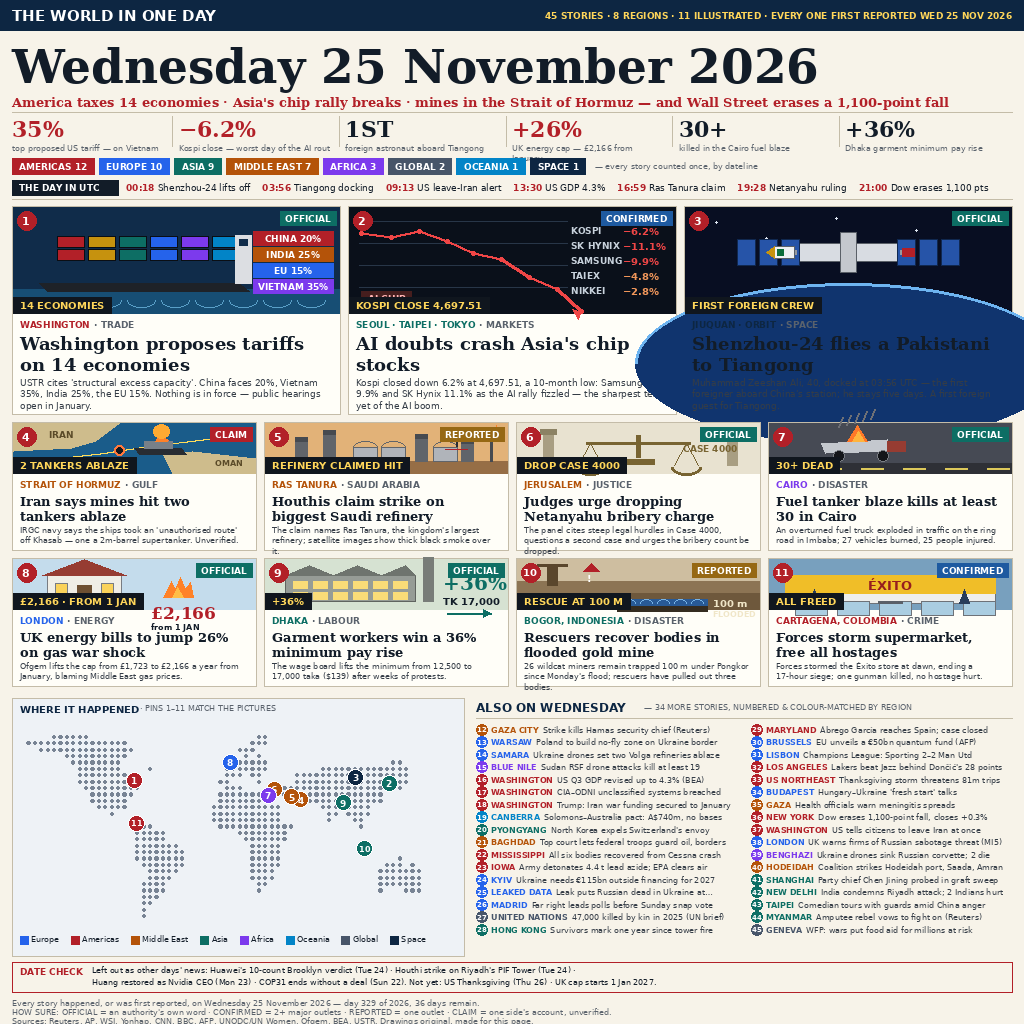
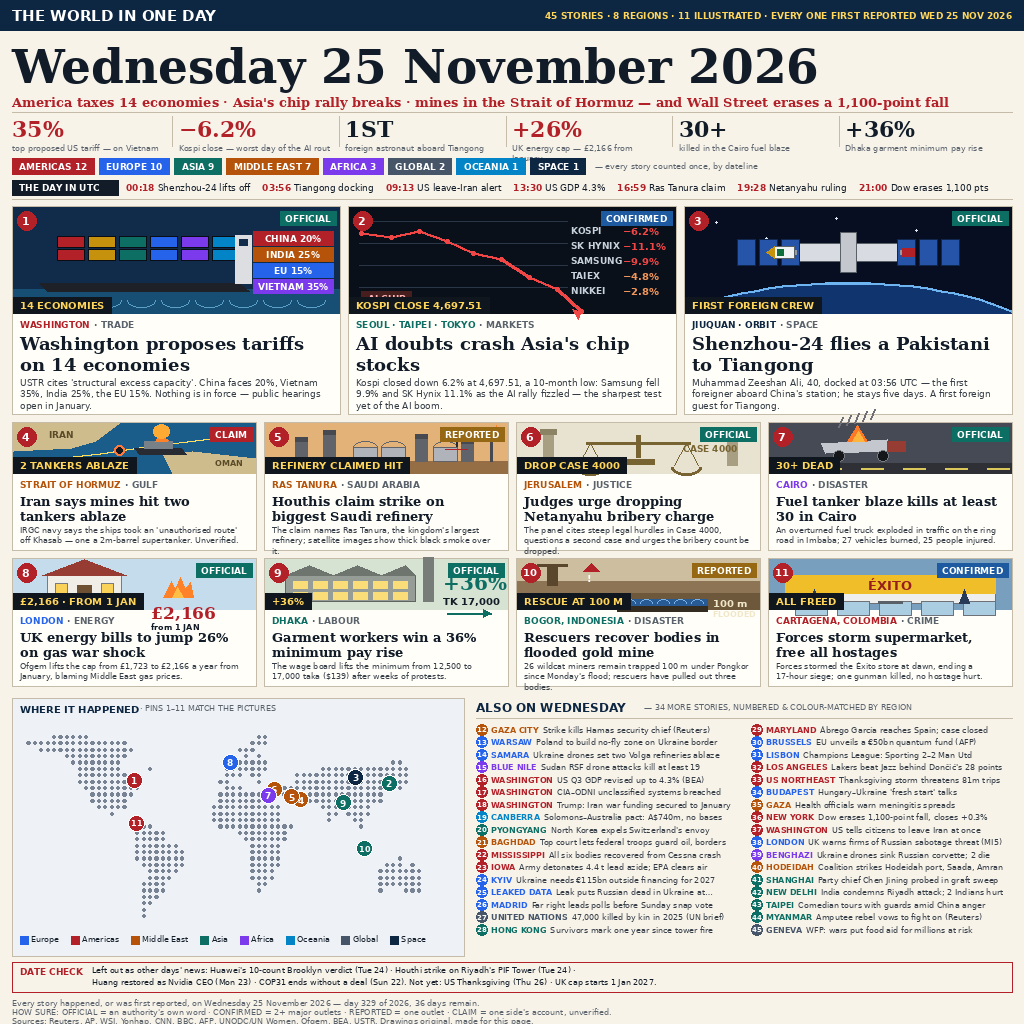
v2 fix: clip the Tiangong planet to its scene — the filled ellipse bled 130px past the scene over the tile's headline

Changed region(s): [[0.5938, 0.2812, 1.0, 0.4375]]

diff --git a/build_image.py b/build_image.py
@@ -9,6 +9,8 @@ against wire reporting of the day; the drawing is original.
 Run at build time only:  python3 build_image.py  ->  entry.png
 The shipped program (main.py) merely copies entry.png to /output.
 """
+import math
+
 from PIL import Image, ImageDraw, ImageFont
 
 W, H = 1024, 1024
@@ -302,8 +304,16 @@ def scene_station(d, x, y, w, h):
     d.rectangle([x, y, x + w, y + h], fill=(8, 14, 34))
     for sx, sy in [(30, 14), (80, 30), (150, 10), (230, 22), (290, 12), (60, 44), (200, 40)]:
         d.ellipse([x + sx, y + sy, x + sx + 2, y + sy + 2], fill=(220, 228, 240))
-    d.ellipse([x - 50, y + h - 30, x + w + 50, y + h + 130], fill=(16, 52, 110))
-    d.arc([x - 50, y + h - 30, x + w + 50, y + h + 130], 180, 360, fill=(110, 180, 240), width=3)
+    cx_e, cy_e = x + w / 2, y + h + 50
+    rx, ry = w / 2 + 50, 80
+    cap = []
+    for a in range(180, 361, 4):
+        px = cx_e + rx * math.cos(math.radians(a))
+        py = cy_e + ry * math.sin(math.radians(a))
+        if py <= y + h:
+            cap.append((min(max(px, x), x + w), py))
+    d.polygon(cap + [(x + w, y + h), (x, y + h)], fill=(16, 52, 110))
+    d.line(cap, fill=(110, 180, 240), width=3)
     cx, cy = x + w // 2, y + h // 2 - 8
     d.rectangle([cx - 52, cy - 9, cx + 52, cy + 9], fill=(216, 220, 226), outline=(90, 96, 104))
     d.rectangle([cx - 8, cy - 20, cx + 8, cy + 20], fill=(196, 200, 206), outline=(90, 96, 104))
